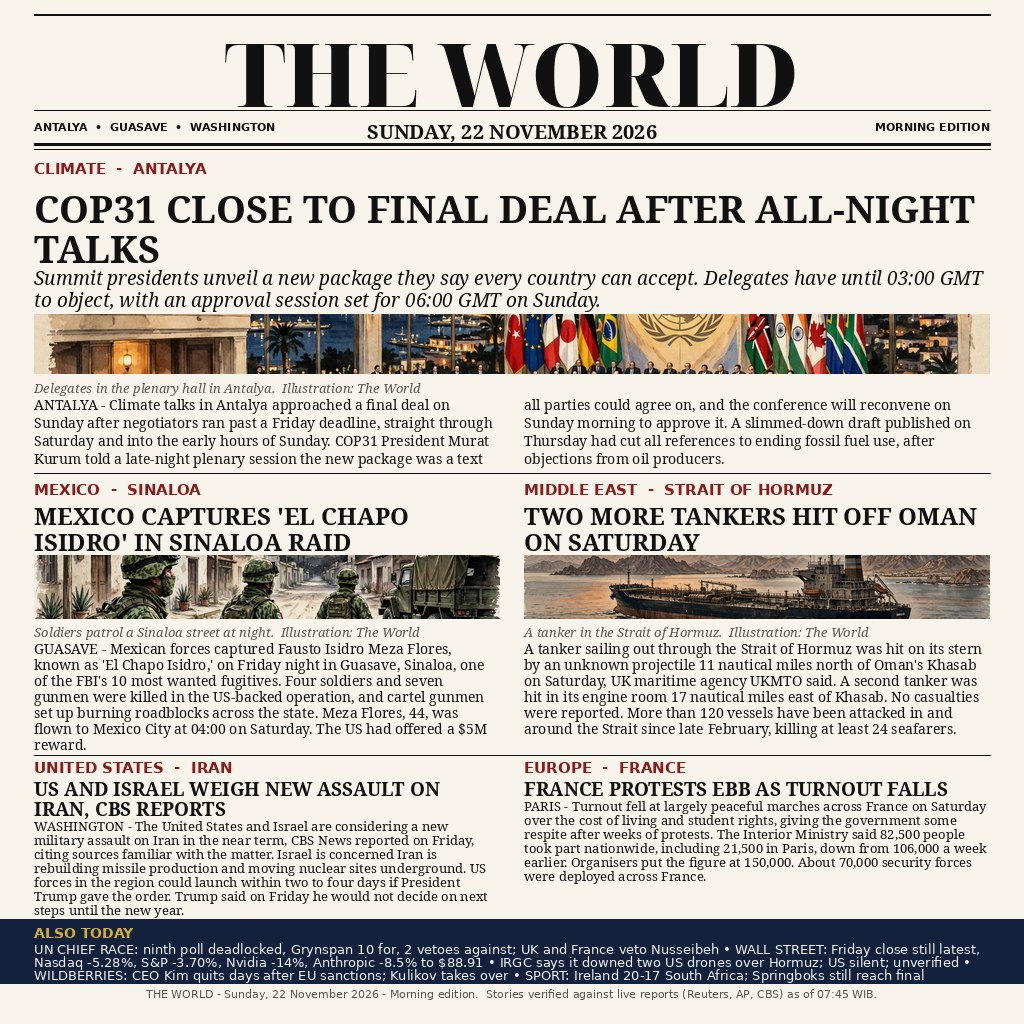
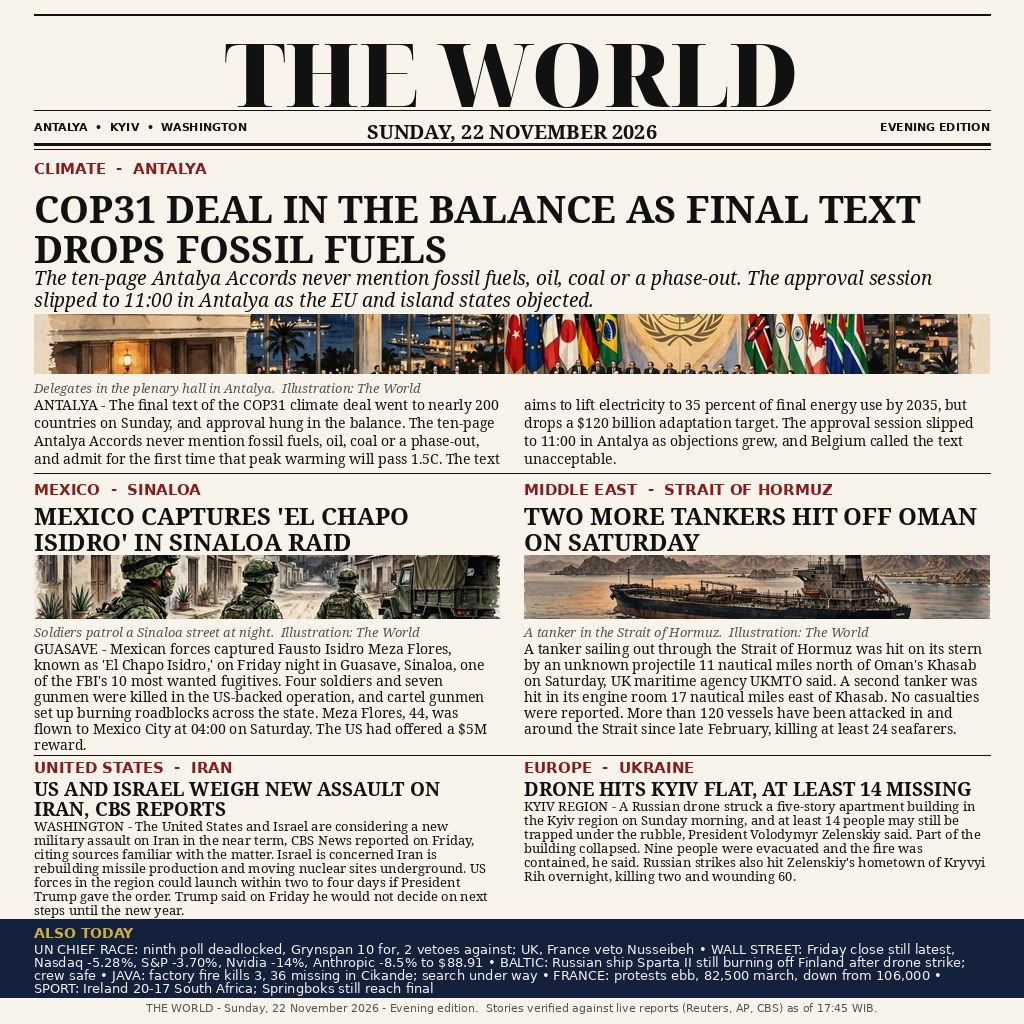
Evening edition refresh: COP31 final text, Kyiv drone strike
- COP31 lead rewritten with the published final text (Antalya Accords,
  94 paragraphs, no fossil fuel mention, 1.5C overshoot admitted,
  approval session slipped to 11:00 Antalya, deal in the balance)
- France protests swapped for the fresh Sunday event: Russian drone
  strike on a Kyiv apartment block, at least 14 missing
- Ticker gains Sparta II fire, Cikande factory fire, ebbing France
  protests; Friday market close still latest
- main.ts: JPEG end-of-image marker check added

diff --git a/main.ts b/main.ts
@@ -6,18 +6,18 @@
 // exactly the same bytes.
 //
 // The image is the Sunday 22 November 2026 front page of "THE WORLD": a
-// newspaper page typeset from verified news of Saturday 21 November, with
+// newspaper page typeset from verified news of Sunday 22 November, with
 // editorial illustrations made for the three photo stories. All page text
 // is set in real fonts, so no headline or caption can come out garbled.
 // No network is used at run time; everything the program needs ships in
 // this repo.
 //
-// MORNING EDITION: the five stories are the big events of Saturday
-// 21 November, the stories the world wakes up to on Sunday 22 November:
-// COP31 close to a final deal after all-night talks in Antalya; Mexico
-// capturing "El Chapo Isidro" in a Sinaloa raid; two more tankers hit off
-// Oman on Saturday; the US and Israel weighing a new assault on Iran;
-// France protests ebbing as turnout falls.
+// EVENING EDITION: the five stories are the day's own outcomes, refreshed
+// at 17:30 WIB from the morning draft: the COP31 final text dropping
+// fossil fuels with the deal in the balance; Mexico capturing
+// "El Chapo Isidro" in a Sinaloa raid; two more tankers hit off Oman on
+// Saturday; the US and Israel weighing a new assault on Iran; a Russian
+// drone strike on a Kyiv apartment block with at least 14 missing.
 
 import { mkdirSync, readFileSync, writeFileSync } from "node:fs";
 import { dirname, join } from "node:path";
@@ -58,6 +58,14 @@ if (!isPng && !isJpeg) {
   throw new Error("bundled image is neither PNG nor JPEG");
 }
 
+// A JPEG must also end with its end-of-image marker. The byte-equality
+// check below would catch a truncation anyway, but failing here names the
+// problem instead of blaming the copy.
+const JPEG_EOI = Buffer.from([0xff, 0xd9]);
+if (isJpeg && !image.subarray(image.length - 2).equals(JPEG_EOI)) {
+  throw new Error("bundled JPEG is truncated: missing end-of-image marker");
+}
+
 mkdirSync(outputDir, { recursive: true });
 writeFileSync(outputPath, image);
 
@@ -68,4 +76,4 @@ if (!image.equals(written)) {
   throw new Error("output does not match the bundled image");
 }
 
-console.log(`wrote ${outputPath} (${written.length} bytes, verified)`);
+console.log(`wrote ${outputPath} (${written.length} bytes, verified, evening edition)`);

diff --git a/README.md b/README.md
@@ -8,17 +8,17 @@ An entry for make.fun's "Sum up 22 November's world news in one image" bounty.
 
 The image is a newspaper front page. The masthead reads "THE WORLD" and the
 date line is Sunday, 22 November 2026. It sums up the day in five stories,
-each checked against live news sources on 22 November 2026 (morning edition
-- news as reported by 07:45 WIB):
+each checked against live news sources on 22 November 2026 (evening edition
+- news as reported by 17:45 WIB):
 
-1. **COP31 close to final deal after all-night talks.** Climate talks in
-   Antalya approached a final deal on Sunday after negotiators ran past a
-   Friday deadline, straight through Saturday and into the early hours of
-   Sunday. COP31 President Murat Kurum told a late-night plenary session
-   the new package was a text all parties could agree on, and the
-   conference will reconvene on Sunday morning to approve it. A
-   slimmed-down draft published on Thursday had cut all references to
-   ending fossil fuel use, after objections from oil producers.
+1. **COP31 deal in the balance as final text drops fossil fuels.** The
+   final text of the COP31 climate deal went to nearly 200 countries on
+   Sunday, and approval hung in the balance. The ten-page Antalya Accords
+   never mention fossil fuels, oil, coal or a phase-out, and admit for the
+   first time that peak warming will pass 1.5C. The text aims to lift
+   electricity to 35 percent of final energy use by 2035, but drops a $120
+   billion adaptation target. The approval session slipped to 11:00 in
+   Antalya as objections grew, and Belgium called the text unacceptable.
 2. **Mexico captures "El Chapo Isidro" in Sinaloa raid.** Mexican forces
    captured Fausto Isidro Meza Flores, known as "El Chapo Isidro," on
    Friday night in Guasave, Sinaloa, one of the FBI's 10 most wanted
@@ -40,23 +40,23 @@ each checked against live news sources on 22 November 2026 (morning edition
    and moving nuclear sites underground. US forces in the region could
    launch within two to four days if President Trump gave the order. Trump
    said on Friday he would not decide on next steps until the new year.
-5. **France protests ebb as turnout falls.** Turnout fell at largely
-   peaceful marches across France on Saturday over the cost of living and
-   student rights, giving the government some respite after weeks of
-   protests. The Interior Ministry said 82,500 people took part
-   nationwide, including 21,500 in Paris, down from 106,000 a week
-   earlier. Organisers put the figure at 150,000. About 70,000 security
-   forces were deployed across France.
+5. **Drone hits Kyiv flat, at least 14 missing.** A Russian drone struck
+   a five-story apartment building in the Kyiv region on Sunday morning,
+   and at least 14 people may still be trapped under the rubble, President
+   Volodymyr Zelenskiy said. Part of the building collapsed. Nine people
+   were evacuated and the fire was contained, he said. Russian strikes also
+   hit Zelenskiy's hometown of Kryvyi Rih overnight, killing two and
+   wounding 60.
 
 Also today: the UN chief race is deadlocked after a ninth straw poll,
 Grynspan leads with 10 votes for but 2 veto powers oppose, and the UK and
 France vetoed UAE candidate Nusseibeh; Wall Street's Friday close is still
 the latest, Nasdaq -5.28%, S&P 500 -3.70%, Nvidia -14%, Anthropic -8.5%
-to $88.91; the IRGC says it downed two US drones over Hormuz, the US had
-no immediate comment and the claim is not verified; Wildberries CEO
-Tatyana Kim quits days after EU sanctions, Alexei Kulikov takes over;
-Ireland beat South Africa 20-17, and the Springboks still reach the
-Nations Championship final.
+to $88.91; the Russian cargo ship Sparta II is still burning off Finland
+after a drone strike, its crew safe; a factory fire in Cikande, Java,
+killed 3 and left 36 missing, with the search under way; France protests
+ebbed, 82,500 marched, down from 106,000; Ireland beat South Africa 20-17,
+and the Springboks still reach the Nations Championship final.
 
 Every story was verified against live news sources on 22 November 2026 (see
 SOURCES.md in the competition workspace). All text is set in real fonts, so
